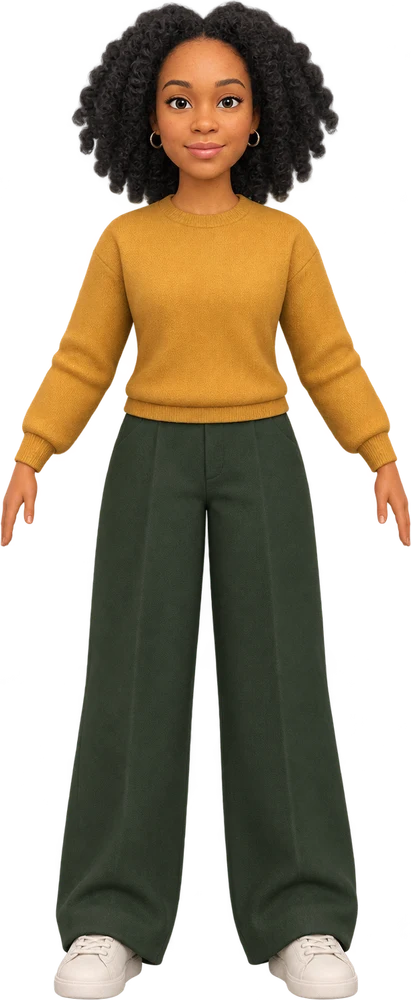
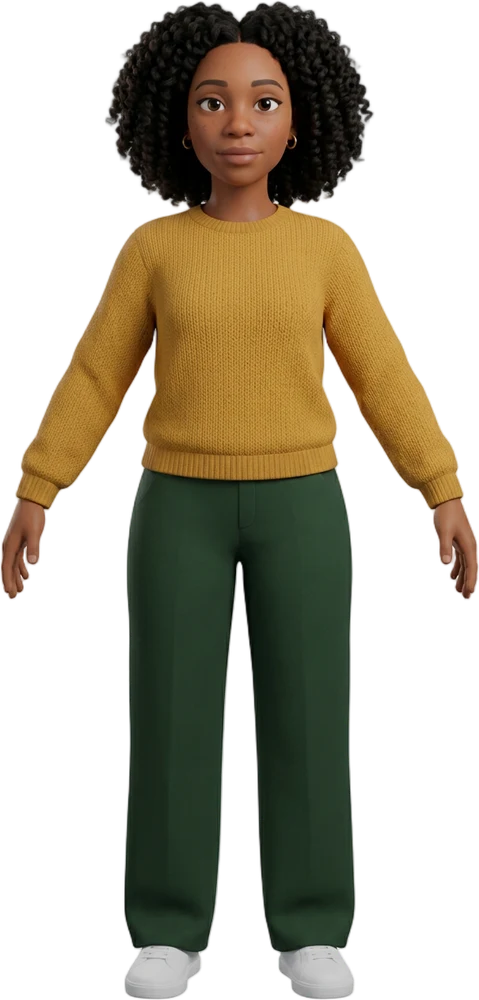
Return to the original look: an animated character with natural proportions
The animated film style with a larger head, a painted hero and a
photorealistic head were each tried and none was liked once rendered and
moving. The look the product started with was: an animated film character
with natural proportions.

Its weakness had been generic faces. The original style sentence now comes
with wording that carries the person's features into the style, keeps
their age and states a normal-sized head, and the image model is Nano
Banana 2.1, which draws it as the same consistent cartoon while keeping
what is distinctive about each person. GPT Image 2.6 scores higher on face
likeness but turns the same prompt into a near-photographic face, which is
what looked wrong before.

Sketches keep the approach from the previous commit: the main model draws
the first one, the fast model restyles it for every change.

Landing page examples are redrawn in this style, and the docs record the
four passes and what each showed.

Claude-Session: https://claude.ai/code/session_01C5Yce9bTBjqCnhP7PxphLj

diff --git a/src/lib/avatar/options.ts b/src/lib/avatar/options.ts
@@ -12,17 +12,19 @@ import { z } from "zod";
  */
 
 /**
- * The one look every iident character shares: a lead character from a 3D
- * animated film. The face is designed in the same style as the body, which
- * is what the earlier look (a near-photographic face on a figure with a
- * large head) got wrong. See docs/character-pipeline.md for the styles it
- * was picked from.
+ * The one look every iident character shares: an animated film character
+ * with natural proportions. This is the look the product started with.
+ * Later looks traded it for a higher measured face likeness and ended up
+ * with a near-photographic face (uncomfortable on a stylized body, and
+ * creepy on a realistic head); see docs/character-pipeline.md.
  */
-export const STYLE_ID = "film-1";
+export const STYLE_ID = "animated-2";
 
 export const HOUSE_STYLE =
-  "a lead character from a modern 3D animated feature film: appealing simplified shapes, near-natural proportions about six and a half heads tall, " +
-  "slightly enlarged expressive eyes, smooth softly shaded skin with no pores, hair as a few large sculpted clumps, clothing with soft simplified folds";
+  "a modern animated feature film (stylized but grounded proportions, soft clean shading, appealing friendly design)";
+
+/** Stated outright because image models like to enlarge the head of a stylized character. */
+const PROPORTIONS = "Natural adult body proportions with a normal-sized head, about seven and a half heads tall.";
 
 export const BUILDS = [
   { id: "slim", label: "Slim", prompt: "slim, slender build" },
@@ -369,9 +371,10 @@ export function buildConceptPrompt(a: Appearance): string {
     ? "hairline, hairstyle, hair color and any facial hair"
     : "and any facial hair";
   const lines = [
-    `Turn the person in this photo into a full-body 3D character in this style: ${HOUSE_STYLE}.`,
-    "The whole character, the face included, is designed in this one style: do not put a photographic or realistic face on a stylized body.",
-    `Keep the person recognizable the way a good character designer or caricature artist does: translate their face shape, jawline, nose, eye shape and spacing, eyebrows, lips, skin tone, ${hair} into the style, keep what is distinctive about them, and keep details such as glasses, moles, freckles and piercings. Keep their apparent age.`,
+    `Turn the person in this photo into a full-body 3D character in the style of ${HOUSE_STYLE}.`,
+    "The whole character, the face included, is drawn in that one style: no photographic or realistic face.",
+    `Keep them recognizable as this exact person the way a good character designer would: carry their face shape, jawline, nose, eye shape and spacing, eyebrows, lips, skin tone, ${hair} over into the style, keep what is distinctive about them, and keep glasses, moles, freckles and piercings if they have them. Keep their apparent age.`,
+    PROPORTIONS,
   ];
   lines.push(...describeLook(a), POSE_AND_FRAMING);
   return lines.join(" ");

diff --git a/src/lib/server/config.ts b/src/lib/server/config.ts
@@ -98,13 +98,16 @@ export const config = {
 
   models: {
     /**
-     * Selfie + look -> the final full-body character image the 3D model is
-     * built from. GPT Image 2.6 kept faces far better than the alternatives
-     * in a six-face bake-off (docs/character-pipeline.md), in about 25 s.
+     * Selfie + look -> the full-body character image the 3D model is built
+     * from. Nano Banana 2.1 draws the house style as a consistent cartoon
+     * and keeps what is distinctive about the person, in about 15 s. GPT
+     * Image 2.6 scores higher on face likeness but turns the same prompt
+     * into a near-photographic face (docs/character-pipeline.md).
      */
-    concept: env("FAL_CONCEPT_MODEL", "openai/gpt-image-2.6/flare/edit")!,
+    concept: env("FAL_CONCEPT_MODEL", "google/nano-banana-2.1/edit")!,
+    /** Quality settings, for image models that have them (GPT Image). */
     conceptQuality: env("CONCEPT_QUALITY", "high")!,
-    /** Quality of the first sketch, which the main model draws from the selfie (about 15 s at low). */
+    /** The first sketch is drawn from the selfie by the main model, at this quality where it applies. */
     firstSketchQuality: env("FIRST_SKETCH_QUALITY", "low")!,
     /** Quick drafts while trying looks: under a cent and a few seconds each. */
     preview: env("FAL_PREVIEW_MODEL", "blackforestlabs/flux-3/klein/edit-image")!,

diff --git a/src/app/page.tsx b/src/app/page.tsx
@@ -59,7 +59,7 @@ export default function Home() {
             <Image
               src="/examples/house-2.webp"
               alt="Example avatar"
-              width={399}
+              width={509}
               height={1000}
               preload
               className="absolute bottom-6 left-2 h-[80%] w-auto animate-float drop-shadow-xl"
@@ -67,7 +67,7 @@ export default function Home() {
             <Image
               src="/examples/house-1.webp"
               alt="Example avatar"
-              width={411}
+              width={479}
               height={1000}
               preload
               className="absolute bottom-0 right-4 h-[90%] w-auto animate-float drop-shadow-xl [animation-delay:-3s]"

diff --git a/src/lib/avatar/__tests__/options.test.ts b/src/lib/avatar/__tests__/options.test.ts
@@ -53,8 +53,9 @@ describe("appearance options", () => {
       extras: "a small enamel cat pin\n<ignore previous>",
     });
     expect(p).toContain("Hair: give them an auburn chin-length bob.");
-    expect(p).toContain("3D animated feature film");
-    expect(p).toContain("Keep the person recognizable");
+    expect(p).toContain("modern animated feature film");
+    expect(p).toContain("recognizable as this exact person");
+    expect(p).toContain("normal-sized head");
     expect(p).not.toContain("hairstyle, hair color");
     expect(p).toContain("Accessories: round glasses and a wristwatch.");
     expect(p).toContain("Extra details: a small enamel cat pin ignore previous.");

diff --git a/README.md b/README.md
@@ -6,7 +6,7 @@ The avatar's context (knowledge plus a catalog of items) is generic, so other pr
 
 ```
 selfie ──► character sheet ──► textured 3D mesh ──► rigged GLB + 8 animation clips
-          (GPT Image 2.6)        (Meshy 7.1, A-pose)   (Meshy auto-rig, merged + compressed)
+          (Nano Banana 2.1)      (Meshy 7.1, A-pose)   (Meshy auto-rig, merged + compressed)
                                                               │
 voice sample ──► voice clone (Fish Audio, no slot limits)     ▼
 persona ───────► system prompt ──► Claude ──► sentence chunks ──► streaming TTS ──► lip-synced avatar
@@ -17,9 +17,9 @@ context ───────┘                     └──► show_items(ids
 
 **1. Photo.** The selfie is checked on-device with MediaPipe Face Landmarker (one clear, front-facing, well-lit face) before it is uploaded.
 
-**2. Look.** Every character shares one house style: a lead character from a 3D animated film, with the face designed in the same style as the body (`HOUSE_STYLE` in `src/lib/avatar/options.ts`). The creator picks build, height, hair, facial hair, an outfit (presets plus per-piece type and color), accessories and free-text details, and these compile into one prompt that keeps the person recognizable in the style and asks for an A-pose, closed mouth, flat lighting, plain background and empty hands. Those constraints are what make the next steps reliable. Two image models share the work:
-- **Sketches**: the first is drawn from the selfie by the final model at low quality (about 15 seconds, 2 cents). Every later one is FLUX.3 klein restyling that picture with the new look (4 to 7 seconds, under a cent), a moment after every change, so trying outfits feels live and the face stays the same. Asked to draw the person from the selfie itself, the fast model loses them in this style.
-- **The final character** (GPT Image 2.6, about 4 cents, 15 to 30 seconds): drawn once the creator is happy, and can be refined in plain words ("make the sneakers red") with the selfie kept alongside so the face stays true. The 3D model is only built from a final.
+**2. Look.** Every character shares one house style: an animated film character with natural proportions, the face drawn in the same style as the body (`HOUSE_STYLE` in `src/lib/avatar/options.ts`). The creator picks build, height, hair, facial hair, an outfit (presets plus per-piece type and color), accessories and free-text details, and these compile into one prompt that keeps the person recognizable in the style and asks for an A-pose, closed mouth, flat lighting, plain background and empty hands. Those constraints are what make the next steps reliable. Two image models share the work:
+- **Sketches**: the first is drawn from the selfie by the final model (15 to 20 seconds, 4 cents). Every later one is FLUX.3 klein restyling that picture with the new look (4 to 8 seconds, under a cent), a moment after every change, so trying outfits feels live and the face stays the same. Asked to draw the person from the selfie itself, the fast model loses them in this style.
+- **The final character** (Nano Banana 2.1, about 4 cents, about 15 seconds): drawn once the creator is happy, and can be refined in plain words ("make the sneakers red") with the selfie kept alongside so the face stays true. The 3D model is only built from a final.
 
 The models and style were chosen in a measured bake-off: see [docs/character-pipeline.md](docs/character-pipeline.md).
 
@@ -46,9 +46,9 @@ Measured while building this, using the default models:
 
 | Step | Time |
 | --- | --- |
-| First sketch (GPT Image 2.6, low quality) | about 15 s |
-| Sketch of a changed look (FLUX.3 klein) | 4 to 7 s end to end |
-| Final character (GPT Image 2.6, high quality) | 15 to 30 s |
+| First sketch (Nano Banana 2.1) | 15 to 20 s |
+| Sketch of a changed look (FLUX.3 klein) | 4 to 8 s end to end |
+| Final character (Nano Banana 2.1) | about 15 s |
 | 3D mesh + rig + 8 clips (Meshy) | 3 to 13 min, depending on queue load |
 | Speech-to-text (Whisper) | about 2.5 s |
 | Voice clone (Fish Audio: the recording is stored and transcribed) | a few seconds |
@@ -158,7 +158,7 @@ Setting up Stripe: set `STRIPE_SECRET_KEY`; add a webhook endpoint at `/api/bill
 - **Long-running work.** The 3D build runs in-process via `after()`. Deploy on a persistent Node server (Fly.io, Render, Railway, a VM). On serverless platforms move the job to a queue or use fal webhooks. Jobs interrupted by a restart are surfaced as failed so the user can retry.
 - **Storage and database.** `src/lib/server/storage.ts` (local disk) and `src/lib/server/db.ts` (SQLite) are small, isolated modules; swap them for S3/R2 and Postgres for multi-instance deployments.
 - **Accounts.** Sign-in emails go through Resend (`RESEND_API_KEY`, `EMAIL_FROM` on a domain verified there). Without a key, development shows the sign-in link on the page and production refuses to sign anyone in. Set `NEXT_PUBLIC_APP_URL` to the public https address: sign-in links are built from it and the session cookie is marked Secure when it is https.
-- **Costs.** Each avatar uses a first sketch at 2 cents, later sketches at under a cent each, one or two final renders at about 4 cents, one image-to-3D run, one rigging run and one voice clone; each reply uses one Claude call (two in the rare case it shows cards before saying anything) and one TTS call per sentence.
+- **Costs.** Each avatar uses a first sketch at about 4 cents, later sketches at under a cent each, one or two final renders at about 4 cents, one image-to-3D run, one rigging run and one voice clone; each reply uses one Claude call (two in the rare case it shows cards before saying anything) and one TTS call per sentence.
 - **Voice cloning at scale.** With `FISH_API_KEY` set, cloned voices are spoken by Fish Audio straight from the creator's recording, which goes with each request, so there is no voice limit and nothing to clean up at Fish. Saved Fish voice models (`FISH_VOICE_MODE=model`) skip re-sending the recording, but Fish caps how many the API can create by prepaid credit (an account with no credit can create none). Fish concurrency also depends on prepaid credit: 5 requests under $100, 15 from $100, 50 from $1,000. Clones made with ElevenLabs instead each take a voice slot for as long as the avatar exists (30 on Creator, 160 on Pro, 660 on Scale, 2,200 on Business, per ElevenLabs' pricing page in November 2026) and count against a monthly quota of new voices (95 on Creator). Stock voices use no slots, and re-recording or switching to a stock voice frees the old clone.
 
 Costs, pricing options and what a new user still trips over are written up in [docs/go-to-market.md](docs/go-to-market.md).

diff --git a/docs/character-pipeline.md b/docs/character-pipeline.md
@@ -58,7 +58,7 @@ The house style (`HOUSE_STYLE` in `src/lib/avatar/options.ts`) is the five-heads
 
 Net effect on the six test faces: likeness **0.14 before, 0.77 now**, at half the price per final image.
 
-## Second pass: a fully stylized look (the current house style)
+## Second pass: fully stylized looks
 
 The five-heads figure scored well but looked wrong to people: a near-photographic face on a toy body. The likeness score rewards realism, so optimizing for it had pushed the face toward a photo. The second pass asked for the opposite: one style for the whole character, face included, with the person translated into it the way a character designer would.
 
@@ -68,18 +68,39 @@ Six styles, four test faces, GPT Image 2.6 at high quality. "Matched" is how man
 | --- | --- | --- | --- |
 | Five-heads figure (previous) | 0.77 | 6 of 6 | Photo-like face on a stylized body |
 | Painted game hero | 0.40 | 4 of 4 | Closest to realistic, small head |
-| **Animated film character** | 0.23 | 4 of 4 | **House style.** Clearly a character, each person still themselves |
+| Animated film character, 6.5 heads | 0.23 | 4 of 4 | Clearly a character, each person still themselves |
 | Clay puppet | 0.20 | 4 of 4 | Most distinctive; very simple eyes and mouth |
 | Cel-shaded toon | 0.18 | 2 of 4 | Reads as a flat drawing |
 | Soft rounded avatar | 0.12 | 3 of 4 | Faces drift toward one generic face |
 | Vinyl toy | 0.05 | 1 of 4 | Most toy-like, least like the person |
 
-The animated film style (`HOUSE_STYLE`, `STYLE_ID` "film-1") was picked by eye from the sheet. One real build confirmed it converts to 3D, rigs, and that the browser finds the face for lip sync (mouth shapes checked by eye).
+The animated film character and the painted hero were each built in 3D. Neither was liked once rendered: the first still had a large head for its body, and the body proportions of both looked off in motion.
 
-**Sketches changed with it.** Drawing straight from the selfie, the fast model (FLUX.3 klein) loses the person in this style: adults become generic cartoon children, beards disappear, and features named in the prompt (glasses, freckles) get added to people who don't have them. Wording changes and a style reference image did not fix it (the reference's identity leaks in). What works is not asking it to draw the person at all:
+## Third pass: a photorealistic head and shoulders (abandoned)
 
-1. The first sketch is drawn from the selfie by the main model at low quality (about 15 s, $0.02).
-2. Every later sketch is the fast model *restyling that picture* with the new look (`buildSketchEditPrompt`): outfit, build, hair and facial hair all change correctly and the face stays, in 4 to 7 s for under a cent.
+To put all the detail into the face, a head-and-shoulders model was generated from a normalized portrait and given its own runtime: head turning without a skeleton, a modelled mouth interior, eyes redrawn from a picture of themselves (kept on the `claude/talking-head` branch). The static head was the most recognizable result of the whole project. Talking, it was creepy. A face that looks like a photo is judged like a real person, and one moved by simple rules (a picture of an eye being shifted, a mouth cut into a still surface) fails that test however much the details are polished.
+
+## Fourth pass: back to the first look (the current house style)
+
+The look the product started with, an animated film character with natural proportions, turned out to be the one people preferred. Its weakness had been likeness: on Nano Banana 2 the faces were generic. Four ways of drawing it, five test faces:
+
+| | Likeness score | Matched | Notes |
+| --- | --- | --- | --- |
+| 1. Original prompt, Nano Banana 2 | 0.14 | 5 of 6 | Generic faces |
+| 2. New wording, Nano Banana 2 | 0.15 | 4 of 5 | Little change |
+| **3. New wording, Nano Banana 2.1** | 0.18 | 5 of 5 | **House style.** Same cartoon look; keeps beards going grey, age, face shape |
+| 4. New wording, GPT Image 2.6 | 0.62 | 5 of 5 | Ignores the style: near-photographic faces again |
+
+"New wording" is the original style sentence plus: the whole character is drawn in one style, the named features are carried over into it, the apparent age is kept, and the head is a normal size (seven and a half heads tall). Option 3 is the house style (`HOUSE_STYLE`, `STYLE_ID` "animated-2", image model `google/nano-banana-2.1/edit` at about 4 cents and 15 seconds). Two builds confirmed it in 3D next to the very first avatar: same look, more of the person.
+
+The lesson for next time: the likeness score is a guide for comparing models inside one style, not a target. Chasing it leads to realism, and realism is what looked wrong.
+
+## Sketches
+
+Drawing straight from the selfie, the fast model (FLUX.3 klein) loses the person in a cartoon style: adults become generic cartoon children, beards disappear, and features named in the prompt (glasses, freckles) get added to people who don't have them. Wording changes and a style reference image did not fix it (the reference's identity leaks in). What works is not asking it to draw the person at all:
+
+1. The first sketch is drawn from the selfie by the main model (about 15 to 20 s, 4 cents).
+2. Every later sketch is the fast model *restyling that picture* with the new look (`buildSketchEditPrompt`): outfit, build, hair and facial hair all change correctly and the face stays, in 4 to 8 s for under a cent.
 3. Once a final exists, sketches restyle the final instead.
 
 Only pictures the main model drew of the current selfie in the current style are used this way (`sketchBase` in `src/lib/server/concepts.ts`).
@@ -88,5 +109,5 @@ Only pictures the main model drew of the current selfie in the current style are
 
 - Real selfies of real people in poor light or at odd angles.
 - Likeness after the 3D step (one build per style was checked by eye, not scored).
-- The animated film style on more than four faces, and its sketches on real selfies.
+- The current style on more than five faces, and its sketches on real selfies.
 - Passing a tight face crop as a second reference image, which may help further.

diff --git a/docs/go-to-market.md b/docs/go-to-market.md
@@ -8,8 +8,8 @@ Where the product stands (November 2026), what it costs to run, how to charge fo
 
 | Step | Cost | Source |
 | --- | --- | --- |
-| Sketches while trying looks (about 10) | $0.10 | first one $0.02, then $0.008 each, fal prices |
-| Final character (1 or 2 renders) | $0.04 to $0.08 | $0.041 each, fal price |
+| Sketches while trying looks (about 10) | $0.11 | first one $0.042, then $0.008 each, fal prices |
+| Final character (1 or 2 renders) | $0.04 to $0.08 | $0.042 each, fal price |
 | 3D mesh with textures | $1.20 | fal price for Meshy 7.1 |
 | Rig plus 8 animation clips | about $1.16 | Meshy's listed add-ons ($0.20 rig, $0.12 a clip); the rigging endpoint doesn't publish its own price |
 | Voice clone | under $0.01 | one transcription; Fish stores nothing |
